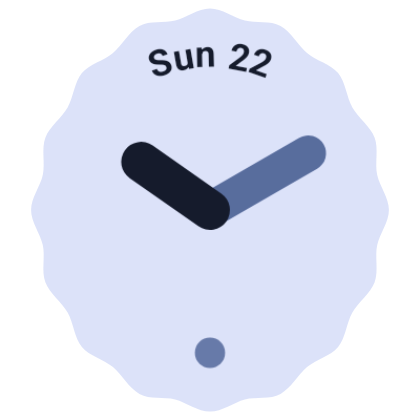
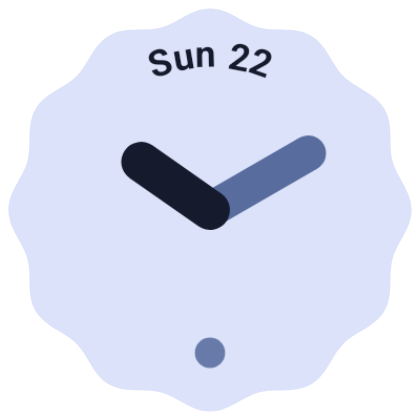
fix(clock): make scalloped analog clock and badge circular

diff --git a/app/src/main/kotlin/dev/shiqan/materialwidgets/widget/clock/AnalogClockAppWidget.kt b/app/src/main/kotlin/dev/shiqan/materialwidgets/widget/clock/AnalogClockAppWidget.kt
@@ -225,7 +225,7 @@ fun AnalogClockWidgetContent(
     packageName: String? = null,
 ) {
     val size = LocalSize.current
-    val cookieSize = size.width.coerceAtMost(size.height).coerceAtLeast(110.dp)
+    val cookieSize = size.width.coerceAtMost(size.height)
     val alarmIntent = Intent(AlarmClock.ACTION_SHOW_ALARMS).apply {
         flags = Intent.FLAG_ACTIVITY_NEW_TASK
     }
